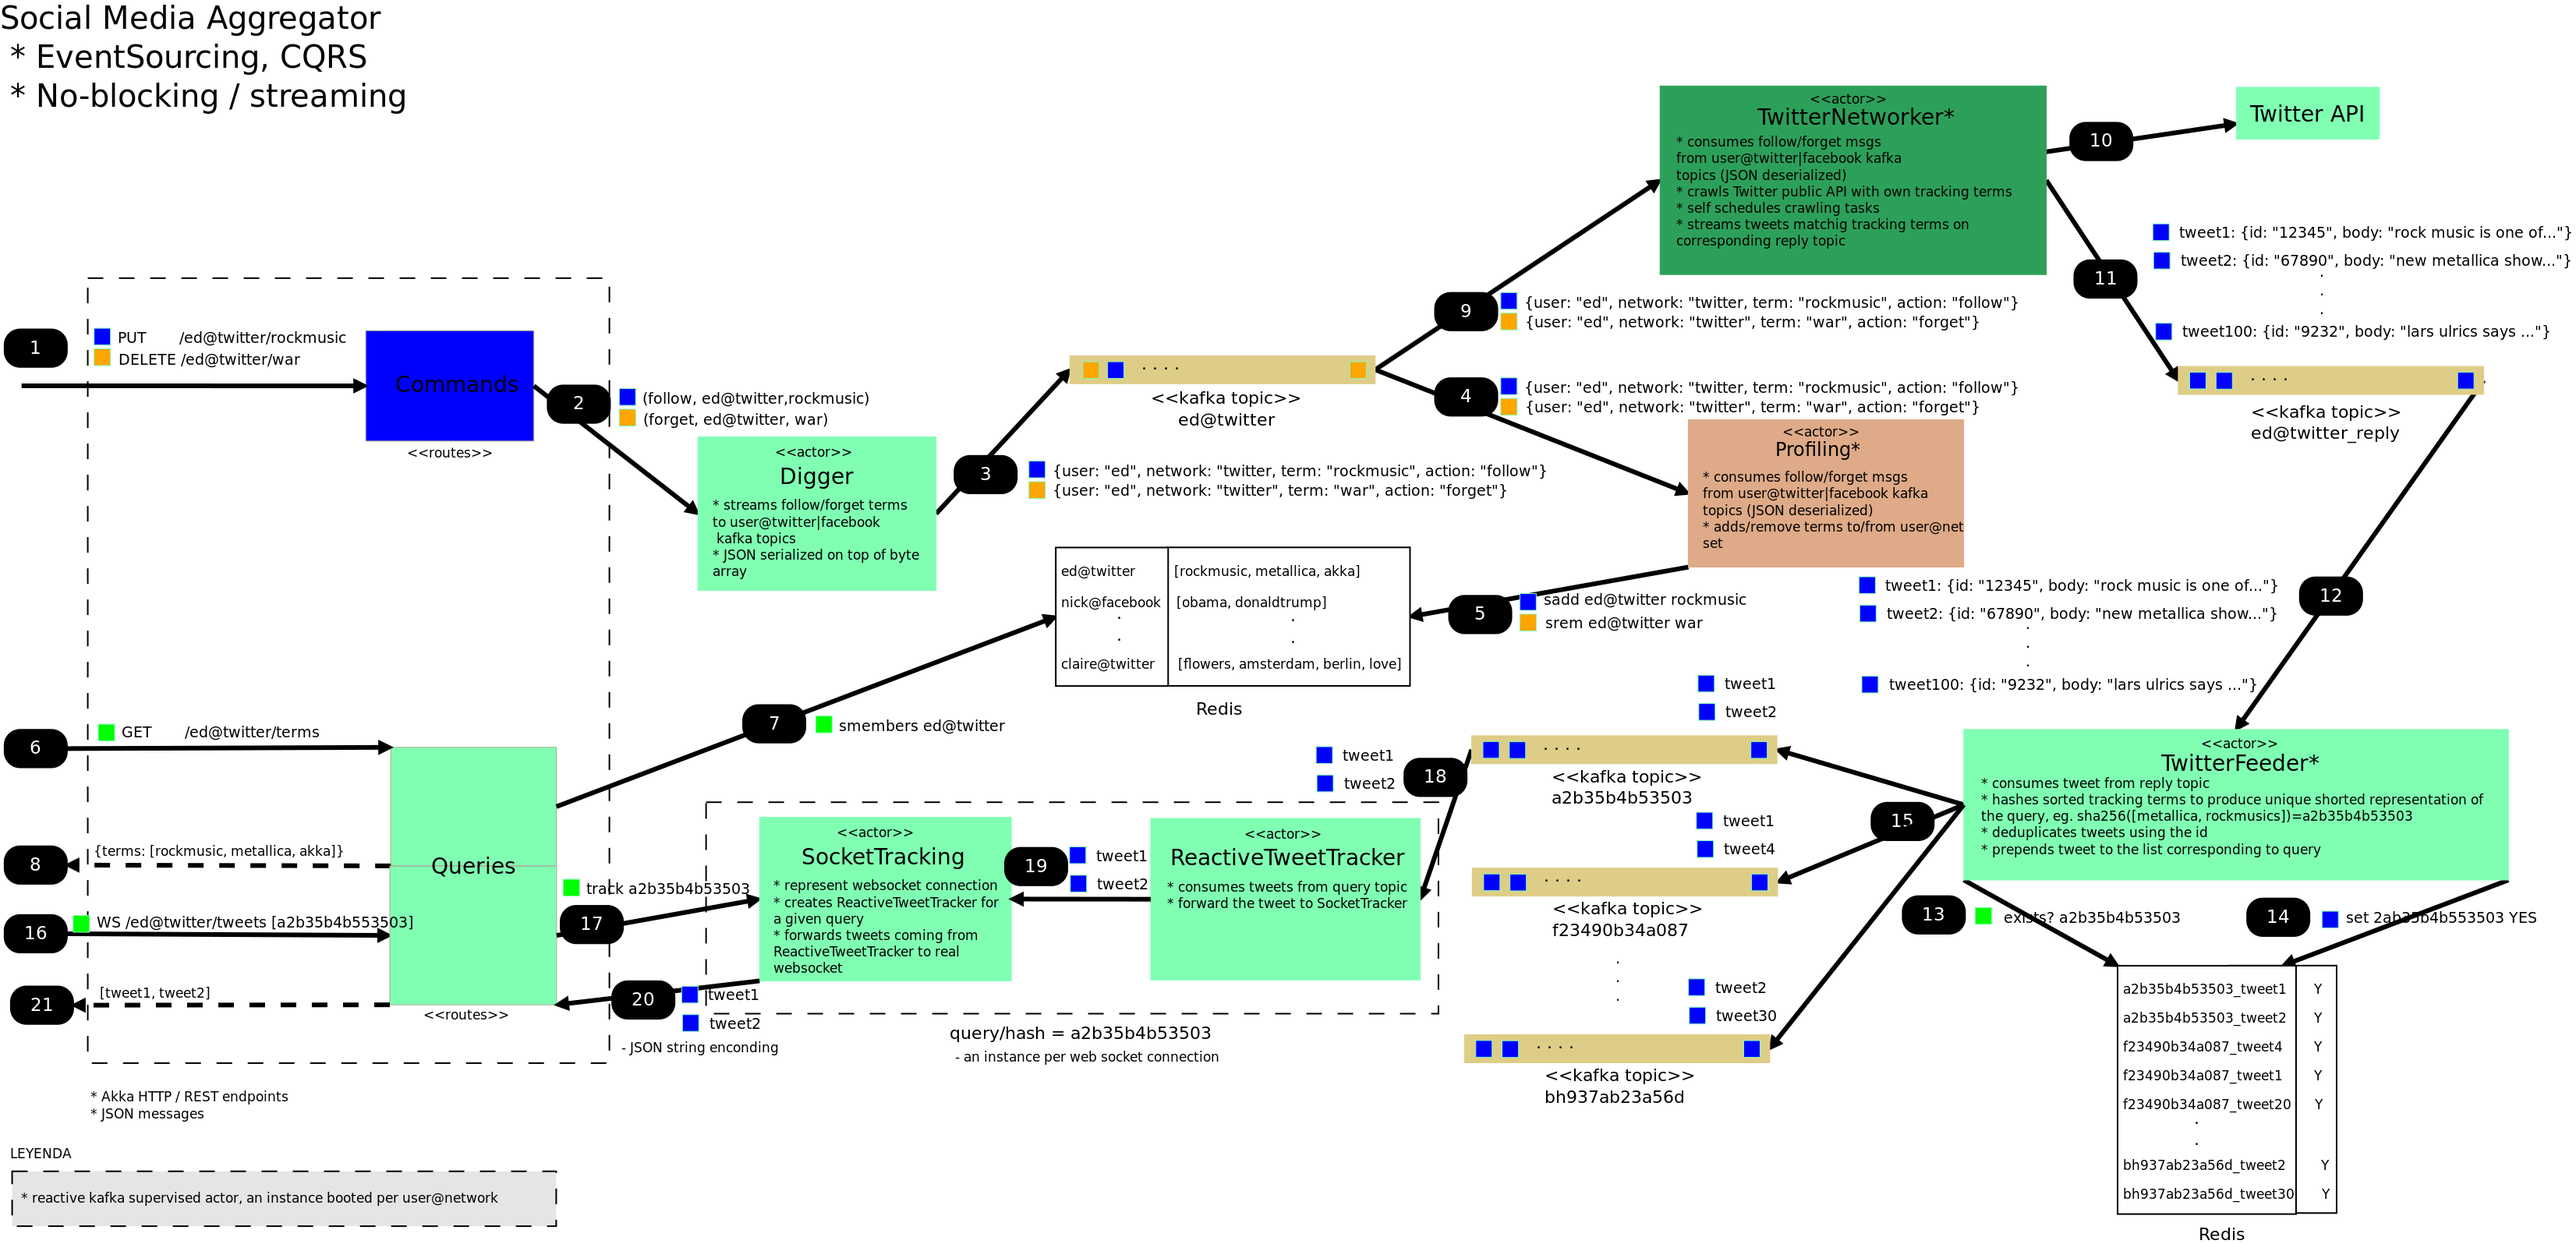
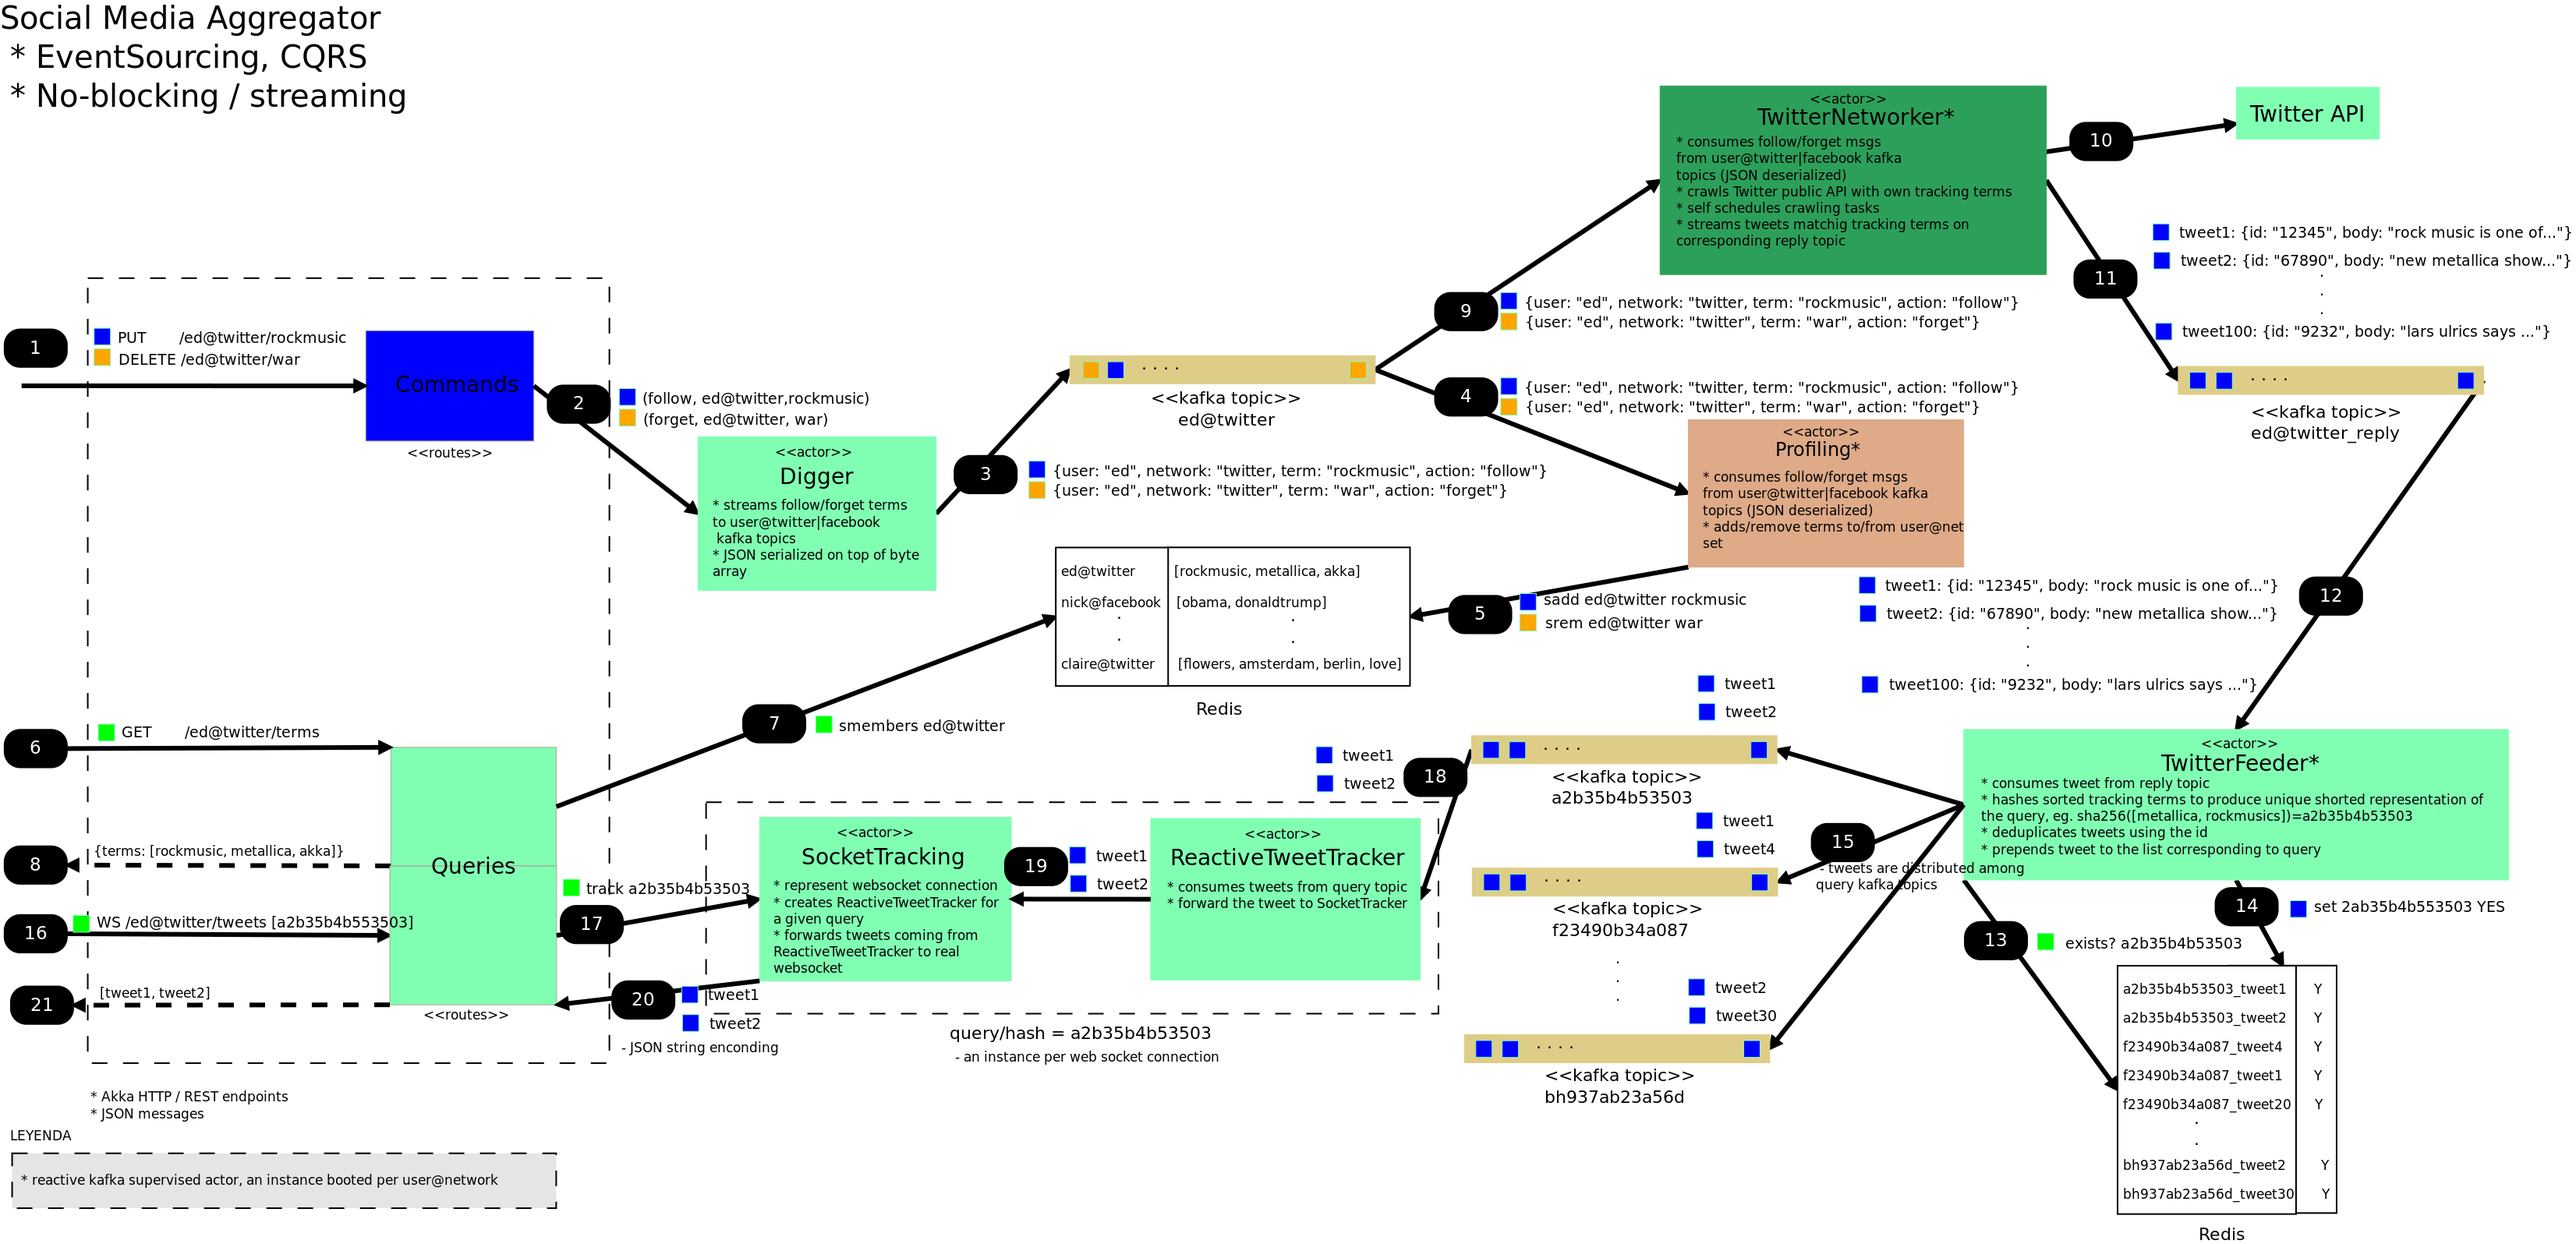
updating diagram and documentation

Changed region(s): [[0.0, 0.9211, 0.2182, 1.0], [0.6858, 0.6447, 0.9664, 0.7675]]

diff --git a/README.md b/README.md
@@ -22,7 +22,7 @@ An running demo of applied [Event-Sourcing](https://martinfowler.com/eaaDev/Even
 * JSON streaming to UI with Akka Streams (Akka Http Spray Json)
 * Idempotent `HTTP` verbs are used
 
-## Fast Data Architecture Use Cases
+## Use Cases
 
 1. UI issues `PUT` or `DELETE` to `/<user@network>/<term>` indicating that `<user>` wants to track/untrack a given term at `<network>`, minimal acknowledgment is returned. For instance:
 
@@ -56,12 +56,18 @@ An running demo of applied [Event-Sourcing](https://martinfowler.com/eaaDev/Even
 
 13. `TwitterFeeder` uses the tweet's `hash_of_tracking_terms` and the tweet `id`, to check if the tweet is already on the list for that query, so tweets are never duplicated for a given set of tracking terms. `<hash_of_tracking_terms>_<tweet_id>` is used as key in Redis
 
-14. If tweet is not stored already then, `TwitterFeeder` stores the tweet the the corresponding query list, using the `<hash_of_tracking_terms>` as key
+14. `TwitterFeeder` marks the tweet as stored using `<hash_of_tracking_terms>_<tweet_id>` as key
 
-15. `TwitterFeeder` marks the tweet as stored using `<hash_of_tracking_terms>_<tweet_id>` as key
+15. If tweet is not stored already then, `TwitterFeeder` stream the tweet to kafka topic named `<hash_of_tracking_terms>`
 
-16. Since UI keeps its own collection of tracking terms, then a `GET /ed@twittter/board/<hash_of_tracking_terms>` is issued
+16. Since UI keeps its own collection of tracking terms, then a Websocket tracking message is sent to `/ed@twittter/tweets` is issued with content = `<hash_of_tracking_terms>`
 
-17. Query routes (see [CQRS](https://martinfowler.com/bliki/CQRS.html)) receive the request and stream tweets message back from the corresponding Redis list, by just using `<hash_of_tracking_terms>` as key
+17. Query routes (see [CQRS](https://martinfowler.com/bliki/CQRS.html)) receive the request and creates 2 actors. A `SocketTracking` representing the Websocket and `ReactiveTweetTracker` that consumers the tweets from the query corresponding kafka topic, that is `<hash_of_tracking_terms>`
 
-18. Query routes send tweets corresponding to tracking terms back to UI
+18. `ReactiveTweetTracker` consumes the stream of tweet from the kafka topic named `<hash_of_tracking_terms>`
+
+19. `ReactiveTracker` forwards the tweet to `SocketTracker`
+
+20. `SocketTracker` forwards the tweet to the real Websocket, during the process tweets are JSON string encoded
+
+21. Query routes send tweets corresponding to tracking terms back to UI, tweets are JSON decoded and shown
